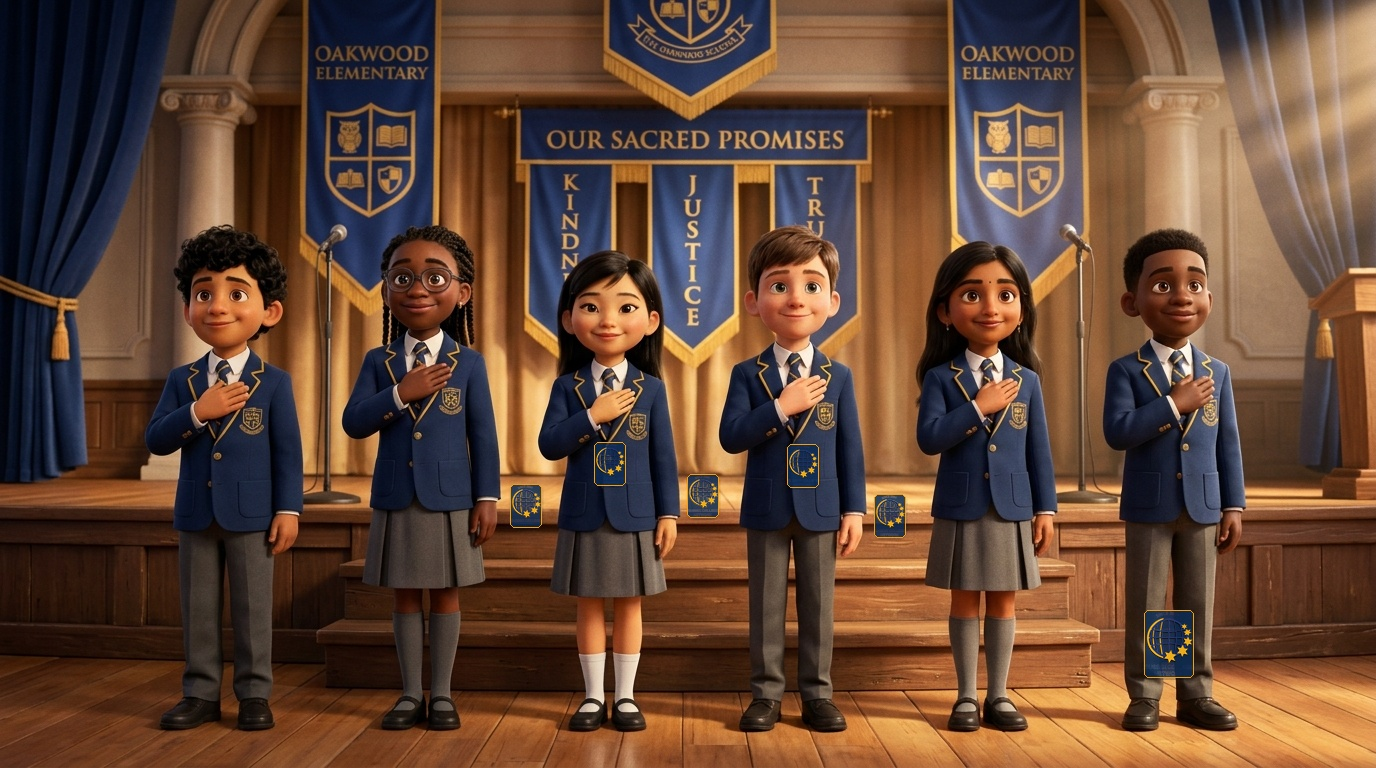
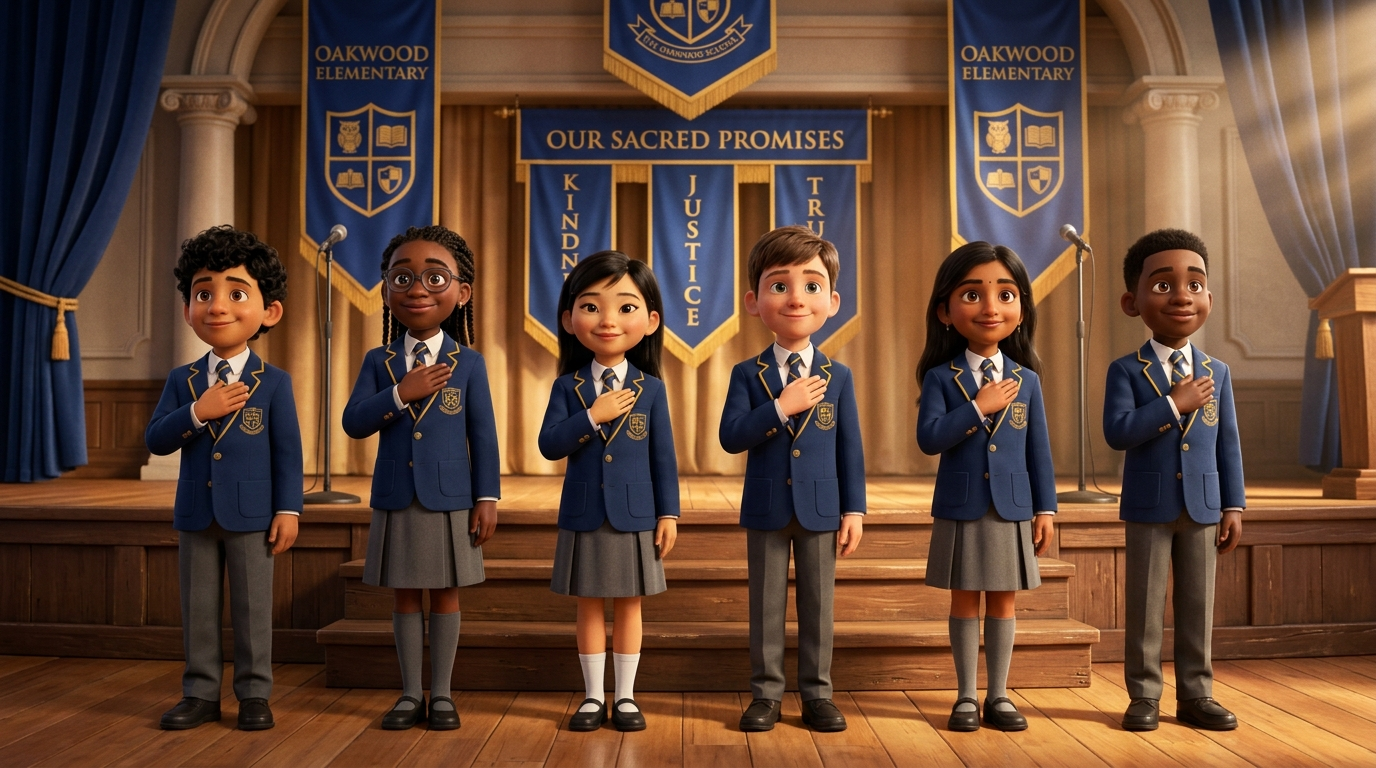
Final visual corrections: fix Justice Detectives vertical bounds to prevent nav bar overlap, remove floating squares on Slide 34, increase Pledge font size to 18px, replace Pledge Part 2 background with Sussex school environment, and elevate teacher credit with clean Finale background

diff --git a/index.html b/index.html
@@ -1462,12 +1462,27 @@
               <div class="motto-banner-chip">
                 <span class="motto-text">“Hand on heart, standing for justice.”</span>
               </div>
-              <div class="cast-chip-row" style="margin-top: 14px; flex-direction: column; align-items: flex-start; gap: 8px;">
-                <span class="cast-chip" style="font-size: 13px; padding: 6px 16px;">✦ 1. I promise to be kind to everyone.</span>
-                <span class="cast-chip" style="font-size: 13px; padding: 6px 16px;">✦ 2. I will speak the truth and treat others fairly.</span>
-                <span class="cast-chip" style="font-size: 13px; padding: 6px 16px;">✦ 3. I will respect my friends and help those in need.</span>
-                <span class="cast-chip" style="font-size: 13px; padding: 6px 16px;">✦ 4. I will never bully, hurt, or make fun of others.</span>
-                <span class="cast-chip" style="font-size: 13px; padding: 6px 16px;">✦ 5. I will be kind and gentle to animals.</span>
+              <div class="pledge-promises-list">
+                <div class="pledge-promise-card">
+                  <span class="pledge-promise-num">✦ 1</span>
+                  <span class="pledge-promise-text">I promise to be kind to everyone.</span>
+                </div>
+                <div class="pledge-promise-card">
+                  <span class="pledge-promise-num">✦ 2</span>
+                  <span class="pledge-promise-text">I will speak the truth and treat others fairly.</span>
+                </div>
+                <div class="pledge-promise-card">
+                  <span class="pledge-promise-num">✦ 3</span>
+                  <span class="pledge-promise-text">I will respect my friends and help those in need.</span>
+                </div>
+                <div class="pledge-promise-card">
+                  <span class="pledge-promise-num">✦ 4</span>
+                  <span class="pledge-promise-text">I will never bully, hurt, or make fun of others.</span>
+                </div>
+                <div class="pledge-promise-card">
+                  <span class="pledge-promise-num">✦ 5</span>
+                  <span class="pledge-promise-text">I will be kind and gentle to animals.</span>
+                </div>
               </div>
             </div>
 
@@ -1499,11 +1514,23 @@
               <div class="motto-banner-chip">
                 <span class="motto-text">“Even a small act makes a big difference.”</span>
               </div>
-              <div class="cast-chip-row" style="margin-top: 14px; flex-direction: column; align-items: flex-start; gap: 8px;">
-                <span class="cast-chip" style="font-size: 13px; padding: 6px 16px;">✦ 6. I will protect nature and respect all living things.</span>
-                <span class="cast-chip" style="font-size: 13px; padding: 6px 16px;">✦ 7. I will speak up when I see someone being treated unfairly.</span>
-                <span class="cast-chip" style="font-size: 13px; padding: 6px 16px;">✦ 8. I will use my words and actions to spread love, kindness, and peace.</span>
-                <span class="cast-chip" style="font-size: 13px; padding: 6px 16px;">✦ 9. I understand that even a small act of kindness can make a big difference.</span>
+              <div class="pledge-promises-list">
+                <div class="pledge-promise-card">
+                  <span class="pledge-promise-num">✦ 6</span>
+                  <span class="pledge-promise-text">I will protect nature and respect all living things.</span>
+                </div>
+                <div class="pledge-promise-card">
+                  <span class="pledge-promise-num">✦ 7</span>
+                  <span class="pledge-promise-text">I will speak up when I see someone being treated unfairly.</span>
+                </div>
+                <div class="pledge-promise-card">
+                  <span class="pledge-promise-num">✦ 8</span>
+                  <span class="pledge-promise-text">I will use my words and actions to spread love, kindness, and peace.</span>
+                </div>
+                <div class="pledge-promise-card">
+                  <span class="pledge-promise-num">✦ 9</span>
+                  <span class="pledge-promise-text">I understand that even a small act of kindness can make a big difference.</span>
+                </div>
               </div>
             </div>
 

diff --git a/styles.css b/styles.css
@@ -1727,7 +1727,7 @@ html, body {
   display: flex;
   flex-direction: column;
   justify-content: space-between;
-  padding: 68px 50px 18px;
+  padding: 72px 48px 68px;
   pointer-events: none;
   box-sizing: border-box;
 }
@@ -1737,12 +1737,12 @@ html, body {
   display: flex;
   align-items: center;
   justify-content: space-between;
-  background: rgba(10, 25, 47, 0.88);
-  backdrop-filter: blur(16px);
-  -webkit-backdrop-filter: blur(16px);
+  background: rgba(10, 25, 47, 0.90);
+  backdrop-filter: blur(18px);
+  -webkit-backdrop-filter: blur(18px);
   border: 1.5px solid rgba(255, 255, 255, 0.28);
   border-radius: 20px;
-  padding: 10px 28px;
+  padding: 8px 26px;
   box-shadow: 0 10px 30px rgba(0, 0, 0, 0.5);
   flex-shrink: 0;
   pointer-events: auto;
@@ -1763,7 +1763,7 @@ html, body {
   display: flex;
   align-items: center;
   justify-content: center;
-  margin: 10px 0;
+  margin: 6px 0;
   min-height: 0;
   pointer-events: auto;
 }
@@ -1772,7 +1772,7 @@ html, body {
   max-width: 96%;
   max-height: 100%;
   width: auto;
-  height: 780px;
+  height: 690px;
   object-fit: contain;
   border-radius: 16px;
   box-shadow: 0 16px 48px rgba(0, 0, 0, 0.75), 0 0 0 2px rgba(255, 255, 255, 0.35);
@@ -1784,12 +1784,12 @@ html, body {
   display: flex;
   align-items: center;
   justify-content: space-between;
-  background: rgba(10, 25, 47, 0.9);
-  backdrop-filter: blur(16px);
-  -webkit-backdrop-filter: blur(16px);
+  background: rgba(10, 25, 47, 0.92);
+  backdrop-filter: blur(18px);
+  -webkit-backdrop-filter: blur(18px);
   border: 1.5px solid rgba(255, 255, 255, 0.28);
   border-radius: 20px;
-  padding: 10px 28px;
+  padding: 8px 26px;
   box-shadow: 0 10px 30px rgba(0, 0, 0, 0.5);
   flex-shrink: 0;
   pointer-events: auto;
@@ -1897,6 +1897,92 @@ html, body {
   font-weight: 800;
   color: #fef3c7;
   text-shadow: 0 0 16px rgba(245, 158, 11, 0.7);
+}
+
+/* ==========================================================================
+   Pledge Promises High-Readability List (Slides 35 & 36)
+   ========================================================================== */
+.pledge-promises-list {
+  display: flex;
+  flex-direction: column;
+  gap: 10px;
+  margin-top: 14px;
+  width: 100%;
+}
+
+.pledge-promise-card {
+  display: flex;
+  align-items: center;
+  gap: 14px;
+  background: rgba(255, 255, 255, 0.94);
+  border: 1.5px solid rgba(245, 158, 11, 0.4);
+  border-radius: 16px;
+  padding: 10px 18px;
+  box-shadow: 0 4px 14px rgba(13, 44, 84, 0.08);
+  transition: transform 0.2s ease, border-color 0.2s ease;
+}
+
+.pledge-promise-num {
+  font-family: var(--font-heading);
+  font-size: 16px;
+  font-weight: 800;
+  color: #b45309;
+  background: #fef3c7;
+  border-radius: 10px;
+  padding: 4px 10px;
+  flex-shrink: 0;
+  display: inline-flex;
+  align-items: center;
+  justify-content: center;
+  box-shadow: 0 2px 6px rgba(245, 158, 11, 0.2);
+}
+
+.pledge-promise-text {
+  font-family: var(--font-heading);
+  font-size: 18px;
+  font-weight: 700;
+  color: var(--sussex-navy);
+  line-height: 1.35;
+  letter-spacing: -0.01em;
+}
+
+/* ==========================================================================
+   Grand Finale Prominent Teacher Credit Badge (Slide 37)
+   ========================================================================== */
+.hero-teacher-badge {
+  display: inline-flex;
+  align-items: center;
+  gap: 12px;
+  background: rgba(10, 25, 47, 0.88);
+  backdrop-filter: blur(16px);
+  -webkit-backdrop-filter: blur(16px);
+  border: 2px solid #f59e0b;
+  border-radius: 999px;
+  padding: 10px 28px;
+  box-shadow: 0 8px 24px rgba(245, 158, 11, 0.35), 0 0 24px rgba(245, 158, 11, 0.25);
+  margin-top: 14px;
+}
+
+.hero-teacher-badge .teacher-icon {
+  font-size: 20px;
+  filter: drop-shadow(0 2px 4px rgba(0, 0, 0, 0.4));
+}
+
+.hero-teacher-badge .teacher-label {
+  font-family: var(--font-heading);
+  font-size: 15px;
+  font-weight: 600;
+  color: #fef08a;
+  letter-spacing: 0.02em;
+}
+
+.hero-teacher-badge .teacher-name {
+  font-family: var(--font-heading);
+  font-size: 17px;
+  font-weight: 800;
+  color: #ffffff;
+  letter-spacing: 0.03em;
+  text-shadow: 0 2px 8px rgba(0, 0, 0, 0.5);
 }
 
 /* ==========================================================================
